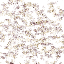
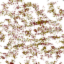
skins

diff --git a/elements.py b/elements.py
@@ -13,15 +13,21 @@ class Element(arcade.Sprite):
 
     def __init__(self, game: Game, x: int, y: int, n: int = 1) -> None:
         super().__init__(None, Element.TILE_SCALE)
-        for i in range(0, n): 
-            self.append_texture(arcade.load_texture('Tiles/' + type(self).__name__ + str(Element.TILE_SIZE) + '-' + str(i) + '.png'))
-        if n > 0: self.set_texture(0)
+        self.nb_skins = 0
+        for i in range(0, n): self.add_skin(type(self).__name__, i)
+        if n > 0: self.set_skin(0)
         self.game = game
         self.x = x ; self.y = y;
         self.wait = 0 ; self.speed = Element.DEFAULT_SPEED
         self.moved = self.moving = False
         self.compute_pos()
-    
+
+    def add_skin(self, name: str, id: int) -> None: 
+        self.append_texture(arcade.load_texture('Tiles/' + name + str(Element.TILE_SIZE) + '-' + str(id) + '.png'))
+        self.nb_skins += 1
+    def set_skin(self, i: int) -> None: self.skin = i; self.set_texture(i)
+    def next_skin(self) -> None: self.set_skin( (self.skin+1) % self.nb_skins )
+     
     def compute_pos(self) -> None:
         self.center_x = Element.TILE_SIZE * Element.TILE_SCALE * (self.x + 0.5)
         self.center_y = Element.TILE_SIZE * Element.TILE_SCALE * (self.y + 0.5)
@@ -97,7 +103,7 @@ class Diamond(Ore):
     def tick(self) -> None:
         shine = random.randint(1, 40)
         if shine > 3: shine = 0
-        self.set_texture(shine)
+        self.set_skin(shine)
         super().tick()
 
 class Explosion(Element):
@@ -110,8 +116,8 @@ class Explosion(Element):
 class Entry(Element):
     def __init__(self, game: Game, x: int, y: int) -> None:
         super().__init__(game, x, y, 0)
-        self.append_texture(arcade.load_texture('Tiles/' + MetalWall.__name__ + str(Element.TILE_SIZE) + '-0.png'))
-        self.set_texture(0)
+        self.add_skin(MetalWall.__name__, 0)
+        self.set_skin(0)
         self.wait = 0.5 # seconds
         self.player = self.game.players[self.game.cave.nb_players]
         self.game.cave.nb_players += 1
@@ -123,12 +129,12 @@ class Entry(Element):
 class Exit(Element):
     def __init__(self, game: Game, x: int, y: int) -> None:
         super().__init__(game, x, y)
-        self.append_texture(arcade.load_texture('Tiles/' + MetalWall.__name__ + str(Element.TILE_SIZE) + '-0.png'))
-        self.opened = False ; self.set_texture(1)
+        self.add_skin(MetalWall.__name__, 0)
+        self.opened = False ; self.set_skin(1)
 
     def tick(self) -> None:
         if self.game.cave.is_complete() :
-            self.opened = True ; self.set_texture(0)
+            self.opened = True ; self.set_skin(0)
 
     def can_be_penetrated(self, by: Element) -> bool: 
         return isinstance(by, Miner) and self.opened
@@ -136,7 +142,7 @@ class Exit(Element):
     def on_destroy(self) -> None: self.game.cave.set_status(Cave.SUCCEEDED)
 
 class Character(Element):
-    def __init__(self, game: Game, x: int, y: int) -> None: super().__init__(game, x, y)
+    def __init__(self, game: Game, x: int, y: int, n: int = 1) -> None: super().__init__(game, x, y, n)
     def can_be_penetrated(self, by: Element) -> bool: return (isinstance(by, Ore) and by.moving)
     def on_destroy(self) -> None: self.game.cave.explode(self.x, self.y)
 
@@ -178,13 +184,14 @@ class Miner(Character):
 
 class Firefly(Character):
     def __init__(self, game: Game, x: int, y: int) -> None:
-        super().__init__(game, x, y)
+        super().__init__(game, x, y, 2)
         self.speed /= 2 ; self.dir = Vector(-1, 0)
 
     def can_be_penetrated(self, by: Element) -> bool:
         return super().can_be_penetrated(by) or isinstance(by, Miner)
 
     def tick(self) -> None:
+        self.next_skin()
         # if in wide 3x3 open area, go straight
         if self.can_move(-1,0) and self.can_move(1,0) and self.can_move(0,-1) and self.can_move(0,1) \
            and self.can_move(-1,-1) and self.can_move(1,-1) and self.can_move(-1,1) and self.can_move(1,1):
